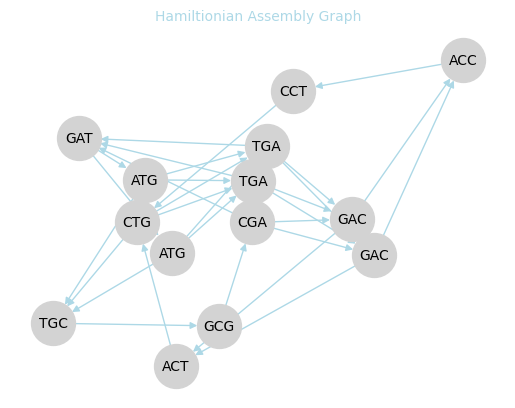
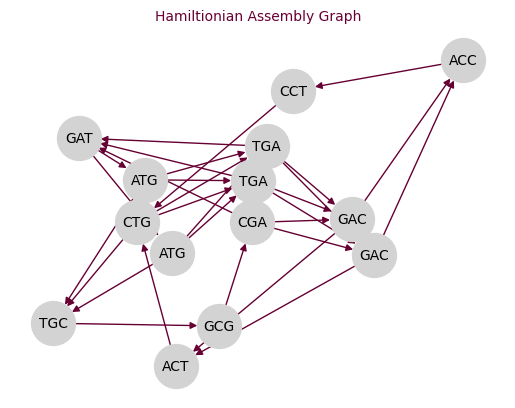
-- fixed directed graph

diff --git a/src/HAG.py b/src/HAG.py
@@ -8,7 +8,7 @@ from utils import *
 class HAGraph(nx.DiGraph):
     '''
     Hamiltionian Assembly Graph class
-        inherits from networkx.MultiDiGraph (directed graph that allows multiple edges between nodes)
+        inherits from networkx.DiGraph (directed graph)
         takes a list of kmers while instantiating and transforms each into a Kmer object
     '''
 
@@ -67,16 +67,17 @@ class HAGraph(nx.DiGraph):
 
         return 'Hamiltionian Assembly Graph'
 
+
     def viz(self,title='None'):
         if title=='None':
             title='Hamiltionian Assembly Graph'
         pos=nx.spring_layout(self, seed=42)
         fig, ax = plt.subplots()
         # color title
-        ax.set_title(title, fontsize=10, color='lightblue')
+        ax.set_title(title, fontsize=10, color='#660033')
         fig.patch.set_alpha(0)  
         ax.set_facecolor("none")  
-        nx.draw(self, pos, with_labels=True, edge_color='lightblue', node_color='lightgrey', 
+        nx.draw(self, pos, with_labels=True, edge_color='#660033', node_color='lightgrey', 
                 font_size=10, node_size=1000, ax=ax)
         plt.show()
 

diff --git a/README.md b/README.md
@@ -30,19 +30,31 @@ In this repository we will explore the construction for both types of graphs. Al
 
 
 ## De Bruijn Graph
-De Bruijn Graph implementation from scratch to solve the genome assembly problem
+De Bruijn Graph is a directed graph that represents overlaps between k-mers (k-mers as edges). Used to reconstruct genome from Eulerian path. It provides an exact solution through _Hierholzer's algorithm_.
 
 
-The algorithm to find a $Eulerian$ $path$ in a graph is called $Hierholzer's$ $algorithm$. The main steps to follow:  
-1. Verification that the path actually exists (as discussed previously)  
+<!-- The algorithm to find a $Eulerian$ $path$ in a graph is called $Hierholzer's$ $algorithm$. The main steps to follow:  
+1. Verification that the path actually exists (as discussed previously)   -->
 
 
-$Hierholzer's\ algorithm(G):$  
-$V, E \leftarrow G$
+<!-- $Hierholzer's\ algorithm(G):$  
+$V, E \leftarrow G$ -->
 
+> [!IMPORTANT]
+If an exact solution of the Eulerian path exists and is solvable in polynomial time, why is it still an open problem in genome assembly? 
+The main issue lies with the sequenced reads. Ideally, we would get the correct sequence of all the fragments we have initially created from the whole genome, so we would get one perfectly reconstructed sequence. However that's never the case, we always end up with several assembled "contigs", which is later complemented with other scaffolding approaches to fill in gaps and get the genome.  
+Let alone the fact that we have a percentage error for each bp sequenced, many reads might not show overlap, failing to reconstruct the fragments as they were. Finding overlaps is especially problematic while dealing with repeats, like `AGAGAGAGAAGA` where the overlap is not unique. To make the assembly results more accurate, we consider starting off with a large k value, however this raises the complexity of the problem and makes it harder to find overlaps. It's always gonna be a trade-off
 
-## References  
-* [Eilliam Fiset youtube playlist](https://www.youtube.com/watch?v=8MpoO2zA2l4) for graph theory - particulalry Eulerian path and Hierholzer's algorithm  
+## Hamiltonian Assembly Graph
+
+This graph that has k-mers as nodes and overlap as edges, solved by the Hamiltonian path problem. We will refer to it as the Hamiltonian Assembly Graph (HAG).
+
+* nodes: k-mers (duplicate nodes allowed)
+* edges: overlaps
+* Graph: directed
+
+It will be a digraph (inherits `nx.DiGraph`), as overlaps can be in both directions. Most importantly, we will allow for duplicate **nodes**, and that's through the implementation of a `Kmer` class that will allow to have unqiue instances of 2 identically sequenced k-mers (not to lose the multiplicity, it's a very important design step). We do not care for edge multiplicity, as we only need to know if there is an overlap or not (binary relationship). From here we can see some differences in class implementation with DBG, in addition to the formal definition of nodes and edges.
+
 
 ## Demo
 
@@ -60,7 +72,7 @@ To build a hamiltonian assembly graph, you can use the following code:
 ```bash
 python src/HAG.py
 ```
-Which will try building a graph from 3-mers teh form teh dna string `ATGCGATGACCTGACT`, following this example:
+Which will try building a graph from 3-mers the form the dna string `ATGCGATGACCTGACT`, following this example:
 ```python
 >>> dna_string = "ATGCGATGACCTGACT"
 >>> k = 3
@@ -75,3 +87,8 @@ Hamiltionian Assembly Graph
 <p align='center'>
 <img src='./assets/HAG.png' width=60%>
 </p>
+
+## References  
+* [Eilliam Fiset youtube playlist](https://www.youtube.com/watch?v=8MpoO2zA2l4) for graph theory - particulalry Eulerian path and Hierholzer's algorithm  
+
+[MIT License](./LICENSE)
